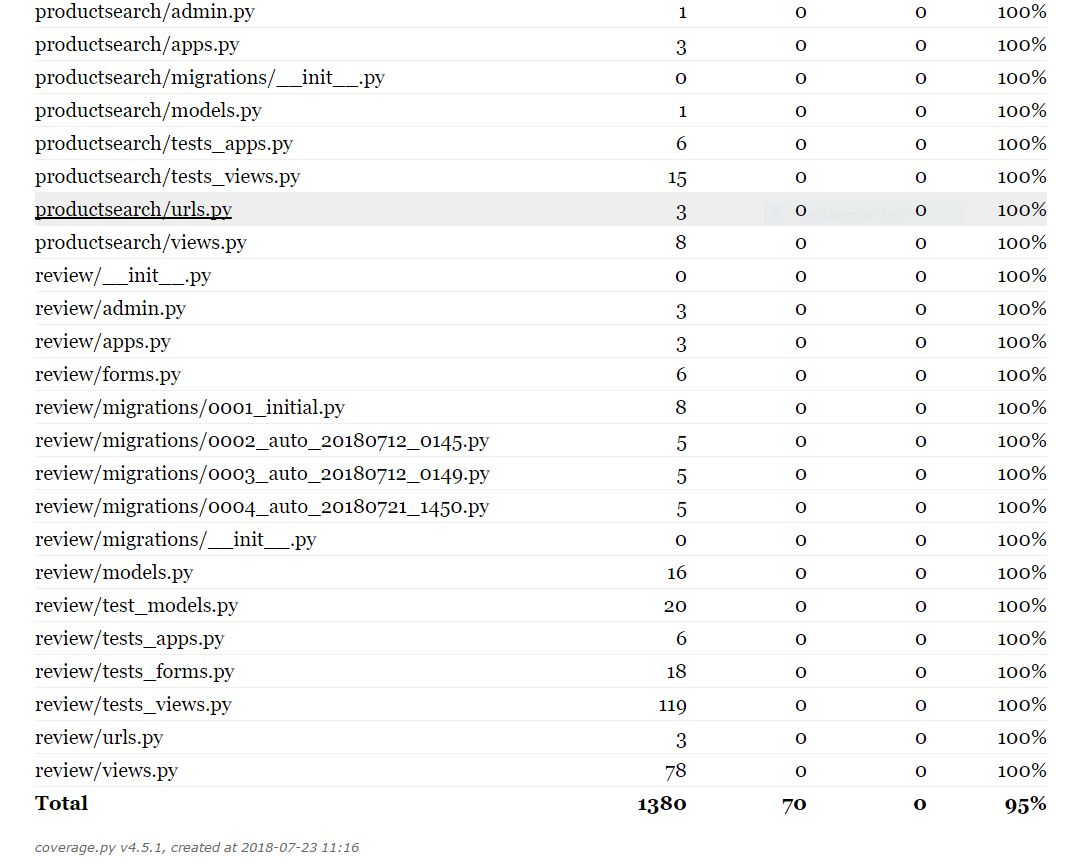
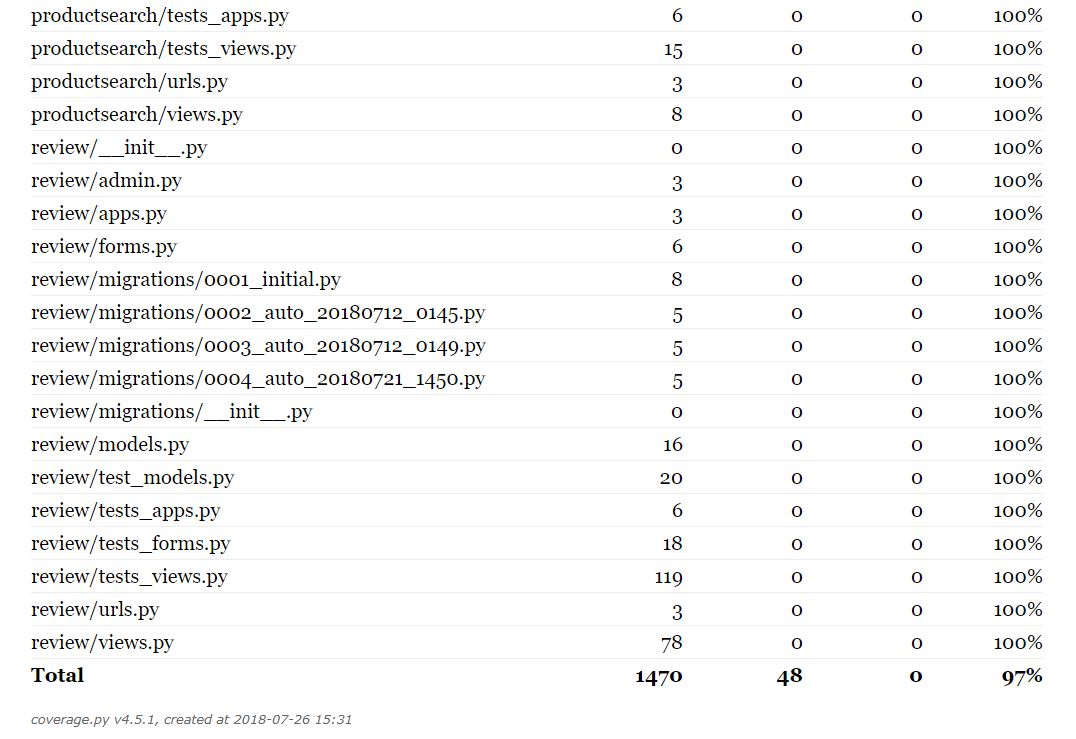
README

diff --git a/README.md b/README.md
@@ -20,7 +20,7 @@
 
 ## Testing
 ## Django Test Suite
-##### I used the Django Test Suite to test all my apps and used Coverage to generate a report in which I initally scored 83% and after adding extra tests i finished with a score of 95% tested. Which covered 1380 statements and missing 70. All tests can be viewed within each app folder
+##### I used the Django Test Suite to test all my apps and used Coverage to generate a report in which I initally scored 83% and after adding extra tests i finished with a score of 97% tested. Which covered 1470 statements and missing 48. All tests can be viewed within each app folder
 
 - Accounts App: tests\_app.py, tests\_forms.py, tests\_models.py, and tests_views.py 
 - Cart App: tests\_app.py, and tests_views.py
